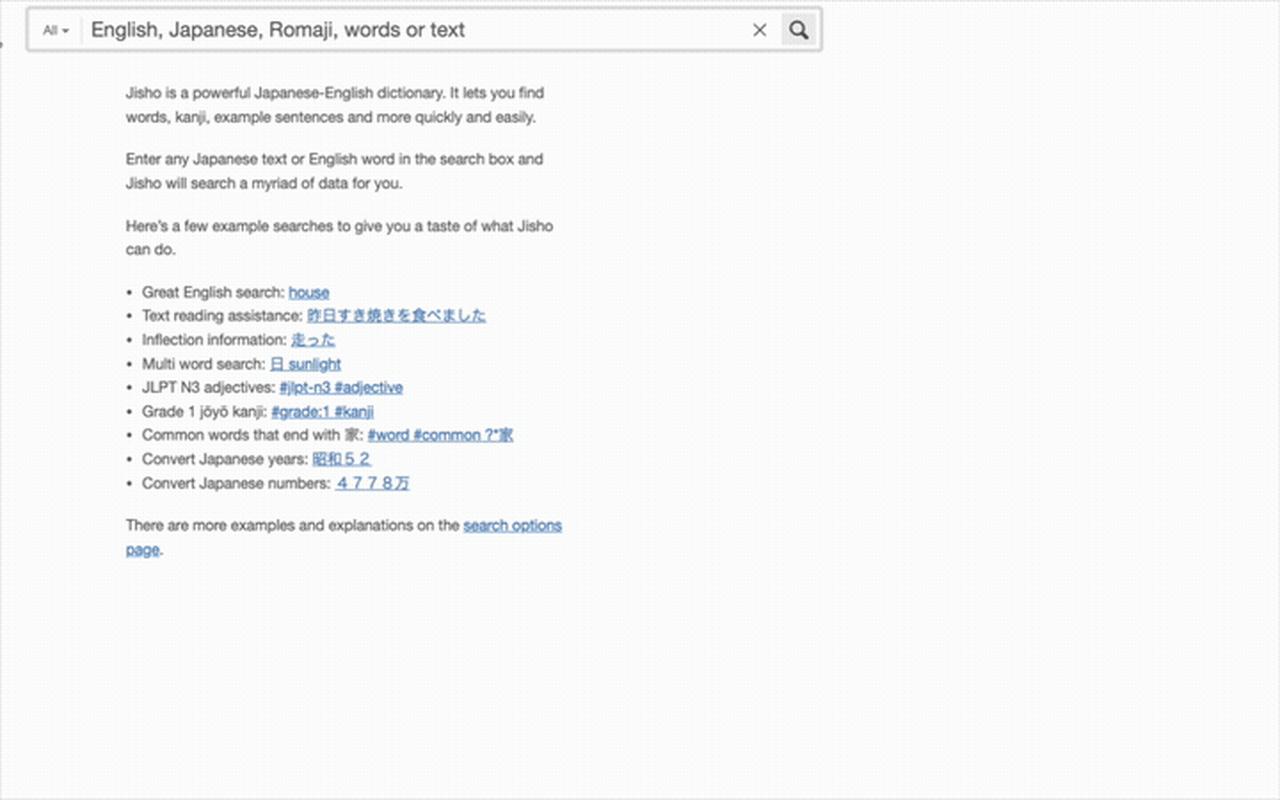
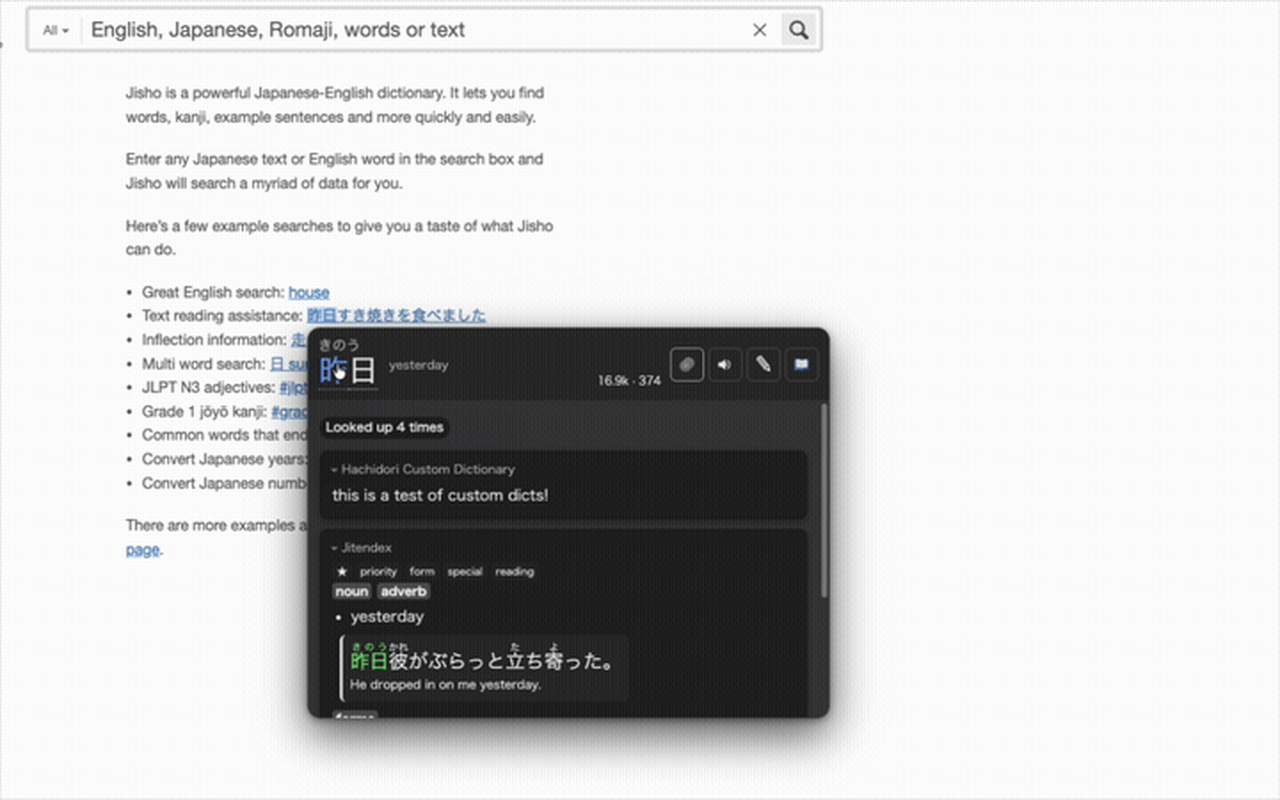
Add seven fitted Chrome Web Store PNG assets

Changed region(s): [[0.2188, 0.375, 0.6875, 0.9688]]

diff --git a/docs/store/readme/README.md b/docs/store/readme/README.md
@@ -14,10 +14,11 @@ are **24-bit RGB PNGs without alpha**, at the exact sizes below.
 | Marquee promo tile | [marquee-promo-1400x560.png](marquee-promo-1400x560.png) | 1400 × 560 |
 
 The five screenshots reuse the README's setup/lookup, import benchmark, lookup
-benchmark, custom-dictionary and lookup-blur artwork. GIFs are exported as a
-single static frame. Images are resized proportionally with matching edge-color
-padding; their content is neither cropped nor stretched. The two promo tiles
-reuse the existing high-resolution hummingbird logo with plain typography.
+benchmark, custom-dictionary and lookup-blur artwork. GIFs are exported as
+visually checked static frames: the custom entry is visible and the blur popup
+is fully inside the recorded viewport. Images are resized proportionally with
+matching edge-color padding; their content is neither cropped nor stretched.
+The two promo tiles reuse the existing hummingbird logo with plain typography.
 
 The original artwork and extension runtime are unchanged. These files are
 outside `extension/` and are not part of the Chrome extension upload package.
